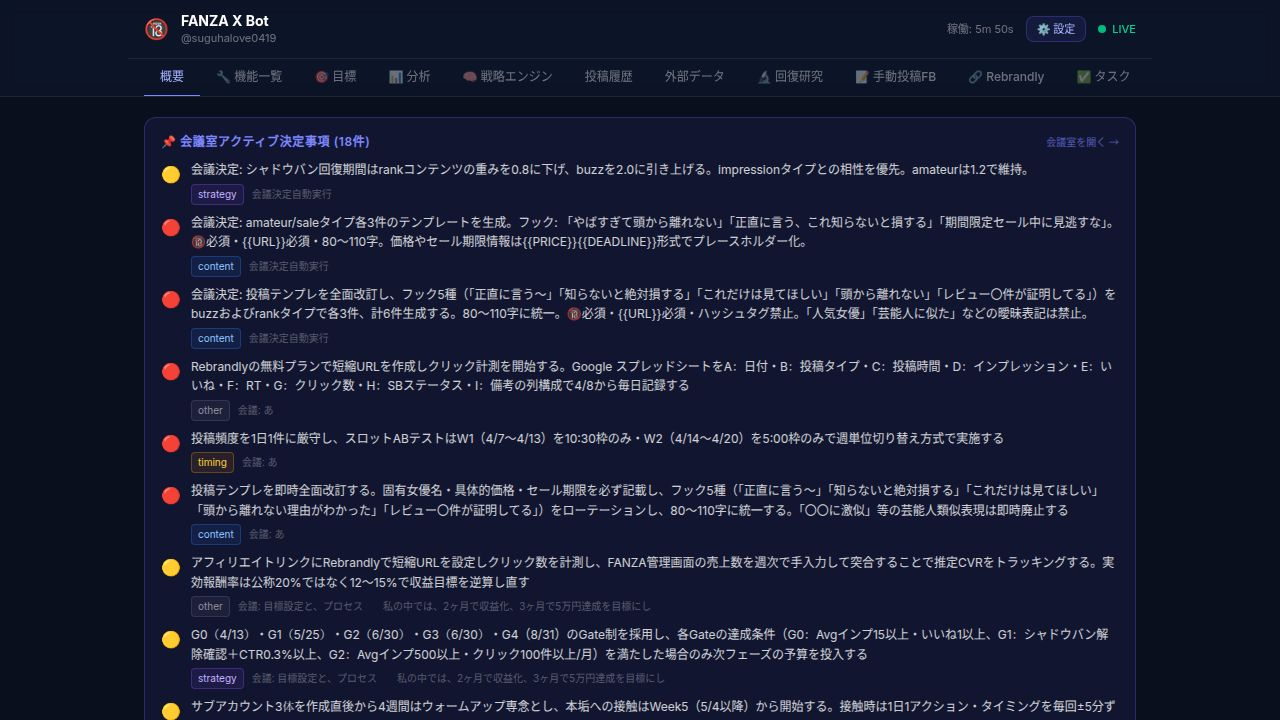
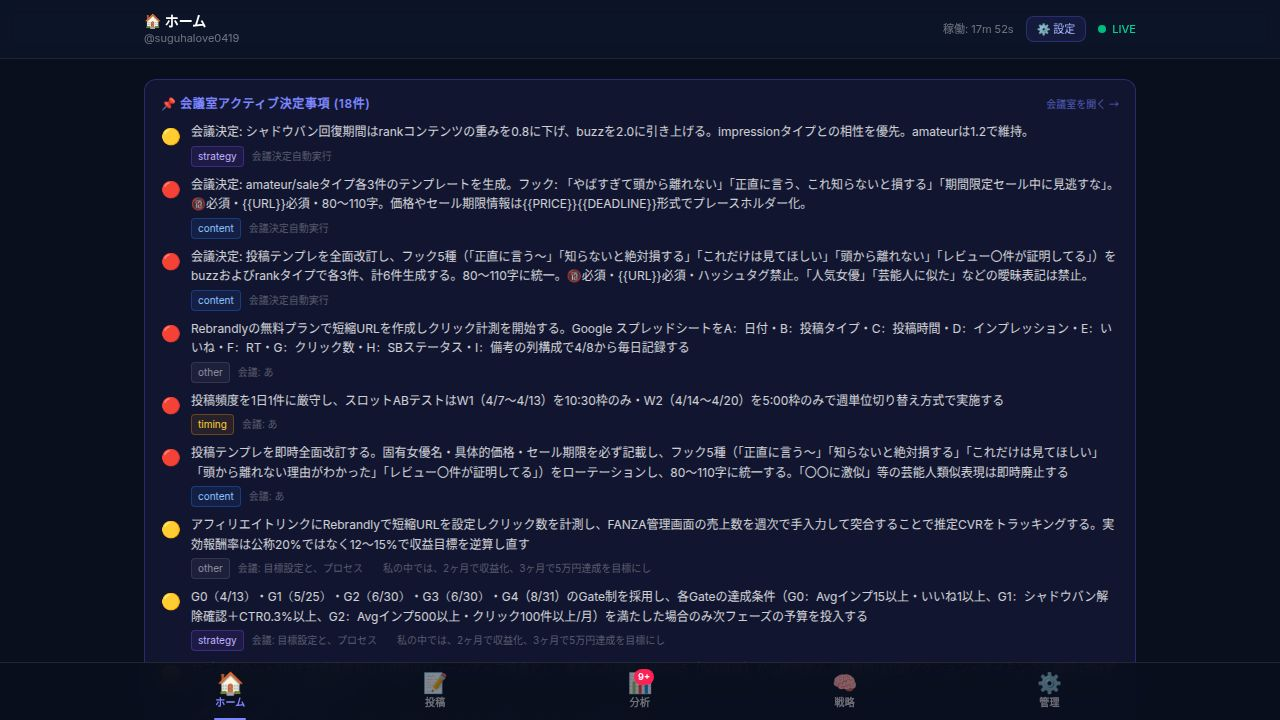
Update the user interface to a simpler, more intuitive Japanese-style app design
Refactor the bot dashboard UI to adopt a Japanese mobile app aesthetic, simplifying navigation from 13 tabs to 5 main sections with integrated sub-tabs, and updating data structures and API configurations.

Replit-Commit-Author: Agent
Replit-Commit-Session-Id: dbd43297-de30-47b6-9241-23a816d90b91
Replit-Commit-Checkpoint-Type: full_checkpoint
Replit-Commit-Event-Id: 123fae82-3fd0-4364-bc5e-4155dbbc1188
Replit-Commit-Screenshot-Url: https://storage.googleapis.com/screenshot-production-us-central1/9438bc98-2368-4410-834b-d55717b993f1/dbd43297-de30-47b6-9241-23a816d90b91/GDdrYvY
Replit-Helium-Checkpoint-Created: true

diff --git a/artifacts/bot-dashboard/src/App.tsx b/artifacts/bot-dashboard/src/App.tsx
@@ -753,6 +753,16 @@ function ManualFeedbackPanel({ feedbacks, onRun }: { feedbacks: ManualPostFeedba
 function Dashboard() {
   const [tick, setTick] = useState(0);
   const [tab, setTab] = useState<"overview" | "features" | "analysis" | "strategy" | "posts" | "patterns" | "research" | "meeting" | "tasks" | "goals" | "manual-fb" | "rebrandly" | "algo">("overview");
+
+  // mainTab は tab から自動導出（既存の setTab 呼び出しをそのまま使える）
+  const mainTab = (() => {
+    if (tab === "overview") return "home";
+    if (tab === "posts" || tab === "manual-fb") return "posts";
+    if (tab === "algo" || tab === "analysis" || tab === "rebrandly") return "analysis";
+    if (tab === "strategy" || tab === "research" || tab === "patterns") return "strategy";
+    return "admin"; // tasks, meeting, goals, features
+  })();
+
   const [obsForm, setObsForm] = useState({ category: "engagement", observation: "", source: "", hypothesis: "", priority: "medium" });
   const [obsSubmitting, setObsSubmitting] = useState(false);
 
@@ -922,6 +932,7 @@ function Dashboard() {
       category: 'scoring' | 'pipeline' | 'nsfw' | 'other';
       status: 'pending' | 'adopted' | 'rejected';
       reviewNote?: string;
+      reviewedAt?: string;
     }>;
   }>({
     queryKey: ["algo-discoveries"],
@@ -976,21 +987,15 @@ function Dashboard() {
     ? postsWithMetrics.reduce((best, p) => calcScore(p.metrics) > calcScore(best.metrics) ? p : best)
     : null;
 
-  const TABS = [
-    { id: "overview",   label: "概要" },
-    { id: "features",   label: "🔧 機能一覧" },
-    { id: "goals",      label: "🎯 目標" },
-    { id: "analysis",   label: "📊 分析" },
-    { id: "strategy",   label: "🧠 戦略エンジン" },
-    { id: "posts",      label: "投稿履歴" },
-    { id: "patterns",   label: "外部データ" },
-    { id: "research",   label: "🔬 回復研究" },
-    { id: "manual-fb",  label: "📝 手動投稿FB" },
-    { id: "rebrandly",  label: "🔗 Rebrandly" },
-    { id: "algo",       label: "📡 アルゴ解析" },
-    { id: "tasks",      label: "✅ タスク" },
-    { id: "meeting",    label: "🤝 会議室" },
-  ] as const;
+  // セクション別サブタブ（ボトムナビ選択に応じて切替）
+  const SECTION_SUBTABS: Record<string, Array<{ id: string; label: string }>> = {
+    home:     [],
+    posts:    [{ id: "posts", label: "📋 履歴" }, { id: "manual-fb", label: "📝 手動FB" }],
+    analysis: [{ id: "algo", label: "📡 アルゴ解析" }, { id: "analysis", label: "📊 パフォーマンス" }, { id: "rebrandly", label: "🔗 リンク計測" }],
+    strategy: [{ id: "strategy", label: "🧠 戦略エンジン" }, { id: "research", label: "🔬 回復研究" }, { id: "patterns", label: "🌐 外部データ" }],
+    admin:    [{ id: "tasks", label: "✅ タスク" }, { id: "meeting", label: "🤝 会議室" }, { id: "goals", label: "🎯 目標" }, { id: "features", label: "🔧 機能" }],
+  };
+  const currentSubTabs = SECTION_SUBTABS[mainTab] ?? [];
 
   // スケジュール（APIから取得、またはデフォルト）
   const schedule = status?.schedule ?? [
@@ -1009,9 +1014,14 @@ function Dashboard() {
       <header className="border-b border-white/8 bg-[#0d1529]/80 backdrop-blur-sm sticky top-0 z-10">
         <div className="max-w-5xl mx-auto px-4 py-3 flex items-center justify-between">
           <div className="flex items-center gap-3">
-            <span className="text-xl">🔞</span>
             <div>
-              <h1 className="text-sm font-bold leading-tight">FANZA X Bot</h1>
+              <h1 className="text-sm font-bold leading-tight">
+                {mainTab === "home"     && "🏠 ホーム"}
+                {mainTab === "posts"    && "📝 投稿管理"}
+                {mainTab === "analysis" && "📊 分析"}
+                {mainTab === "strategy" && "🧠 戦略"}
+                {mainTab === "admin"    && "⚙️ 管理"}
+              </h1>
               <p className="text-[11px] text-white/40">{status?.account ?? "読み込み中..."}</p>
             </div>
           </div>
@@ -1035,25 +1045,27 @@ function Dashboard() {
             </div>
           </div>
         </div>
-        {/* Tabs */}
-        <div className="max-w-5xl mx-auto px-4 flex gap-0 border-t border-white/8 overflow-x-auto scrollbar-none">
-          {TABS.map((t) => (
-            <button
-              key={t.id}
-              onClick={() => setTab(t.id)}
-              className={`px-4 py-2.5 text-xs font-medium transition-colors border-b-2 -mb-px whitespace-nowrap ${
-                tab === t.id
-                  ? "border-indigo-400 text-indigo-300"
-                  : "border-transparent text-white/40 hover:text-white/70"
-              }`}
-            >
-              {t.label}
-            </button>
-          ))}
-        </div>
+        {/* セクション内サブタブ（セクションに応じて切替） */}
+        {currentSubTabs.length > 0 && (
+          <div className="max-w-5xl mx-auto px-4 flex gap-1 border-t border-white/8 py-1.5 overflow-x-auto scrollbar-none">
+            {currentSubTabs.map((t) => (
+              <button
+                key={t.id}
+                onClick={() => setTab(t.id as any)}
+                className={`px-3 py-1.5 text-xs font-medium rounded-full transition-colors whitespace-nowrap ${
+                  tab === t.id
+                    ? "bg-indigo-500/20 text-indigo-300 border border-indigo-500/40"
+                    : "text-white/40 hover:text-white/70 hover:bg-white/5"
+                }`}
+              >
+                {t.label}
+              </button>
+            ))}
+          </div>
+        )}
       </header>
 
-      <main className="max-w-5xl mx-auto px-4 py-5 space-y-5">
+      <main className="max-w-5xl mx-auto px-4 py-5 pb-24 space-y-5">
 
         {/* ════════════════════ 概要タブ ════════════════════ */}
         {tab === "overview" && (
@@ -3593,7 +3605,7 @@ function Dashboard() {
                   <summary className={`text-xs font-semibold text-${color}-400 p-3 cursor-pointer`}>{label}</summary>
                   <div className="px-3 pb-3">
                     <p className="text-xs text-white/70 whitespace-pre-wrap leading-relaxed">
-                      {algoData.latest.discussion[key as keyof typeof algoData.latest.discussion]}
+                      {algoData.latest?.discussion[key as keyof typeof algoData.latest.discussion]}
                     </p>
                   </div>
                 </details>
@@ -3699,6 +3711,45 @@ function Dashboard() {
           )}
         </div>
       )}
+
+      {/* ════ ボトムナビゲーション ════ */}
+      <nav className="fixed bottom-0 left-0 right-0 bg-[#0a0f1e]/95 backdrop-blur-md border-t border-white/10 z-30">
+        <div className="max-w-5xl mx-auto flex">
+          {([
+            { key: "home",     icon: "🏠", label: "ホーム",   setTo: "overview"  },
+            { key: "posts",    icon: "📝", label: "投稿",     setTo: "posts"     },
+            { key: "analysis", icon: "📊", label: "分析",     setTo: "algo"      },
+            { key: "strategy", icon: "🧠", label: "戦略",     setTo: "strategy"  },
+            { key: "admin",    icon: "⚙️", label: "管理",     setTo: "tasks"     },
+          ] as const).map(item => {
+            const isActive = mainTab === item.key;
+            // バッジ計算
+            const badge =
+              item.key === "admin" && tasks
+                ? tasks.daily.filter(t => t.assignee === "user" && !t.completed).length +
+                  tasks.weekly.filter(t => t.assignee === "user" && !t.completed).length
+                : item.key === "analysis" && (discoveryData?.meta?.pendingCount ?? 0) > 0
+                ? (discoveryData?.meta?.pendingCount ?? 0)
+                : 0;
+            return (
+              <button
+                key={item.key}
+                onClick={() => setTab(item.setTo as any)}
+                className="flex-1 relative flex flex-col items-center justify-center py-2.5 gap-0.5 transition-colors"
+              >
+                <span className={`text-xl leading-none transition-transform ${isActive ? "scale-110" : "opacity-50"}`}>{item.icon}</span>
+                <span className={`text-[10px] font-semibold tracking-wide transition-colors ${isActive ? "text-indigo-400" : "text-white/40"}`}>{item.label}</span>
+                {isActive && <span className="absolute bottom-0 left-1/2 -translate-x-1/2 w-8 h-0.5 bg-indigo-400 rounded-full" />}
+                {badge > 0 && (
+                  <span className="absolute top-1.5 right-[calc(50%-14px)] min-w-[16px] h-4 px-1 bg-rose-500 rounded-full text-[9px] font-bold text-white flex items-center justify-center">
+                    {badge > 9 ? "9+" : badge}
+                  </span>
+                )}
+              </button>
+            );
+          })}
+        </div>
+      </nav>
     </div>
   );
 }